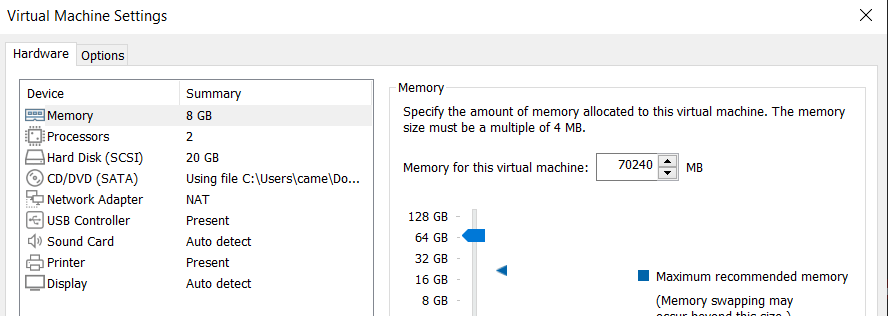
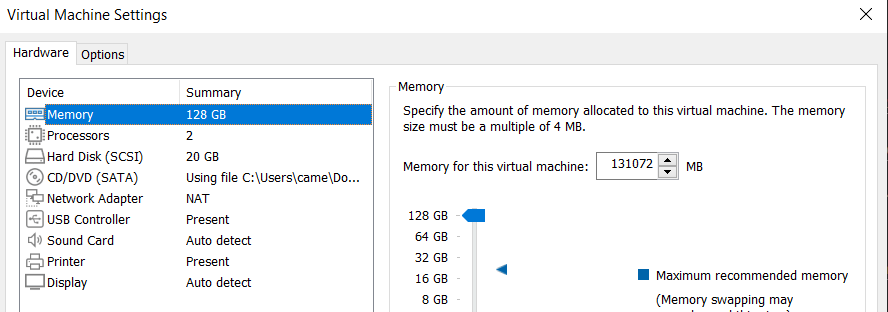
UPdated KN01

diff --git a/KN01/README.md b/KN01/README.md
@@ -30,6 +30,12 @@ Auslesen ist free -g .
 
 ## Fazit
 
+### CPU
 In der Gesamtzahl aller VM's kann die Anzahl der virtuellen CPU Kerne die der realen übersteigen ("Überbuchung") - das bedeutet, dass sich mehrere VM's die gleichen Kerne teilen. Eine einzelne VM kann hingegen nicht mehr Kerne haben als der reale Host, da physische Hardware ja tatsächlich Aufgrund der Angabe zugeteilt wird. Nicht existente Kerne können logischerweise nicht zugeteilt werden.
 
-Daselbe gilt bei RAM
+### RAM
+Man kann mehr RAM
+
+Die maximale Arbeitsspeichergröße einer virtuellen Maschine hängt vom physischen Arbeitsspeicher des Hosts und der Kompatibilitätseinstellung der virtuellen Maschine ab.
+
+Wenn der Arbeitsspeicher der virtuellen Maschine größer als der Hostarbeitsspeicher ist, wird eine Auslagerung durchgeführt, die sich sehr stark auf die Leistung der virtuellen Maschine auswirken kann. 
